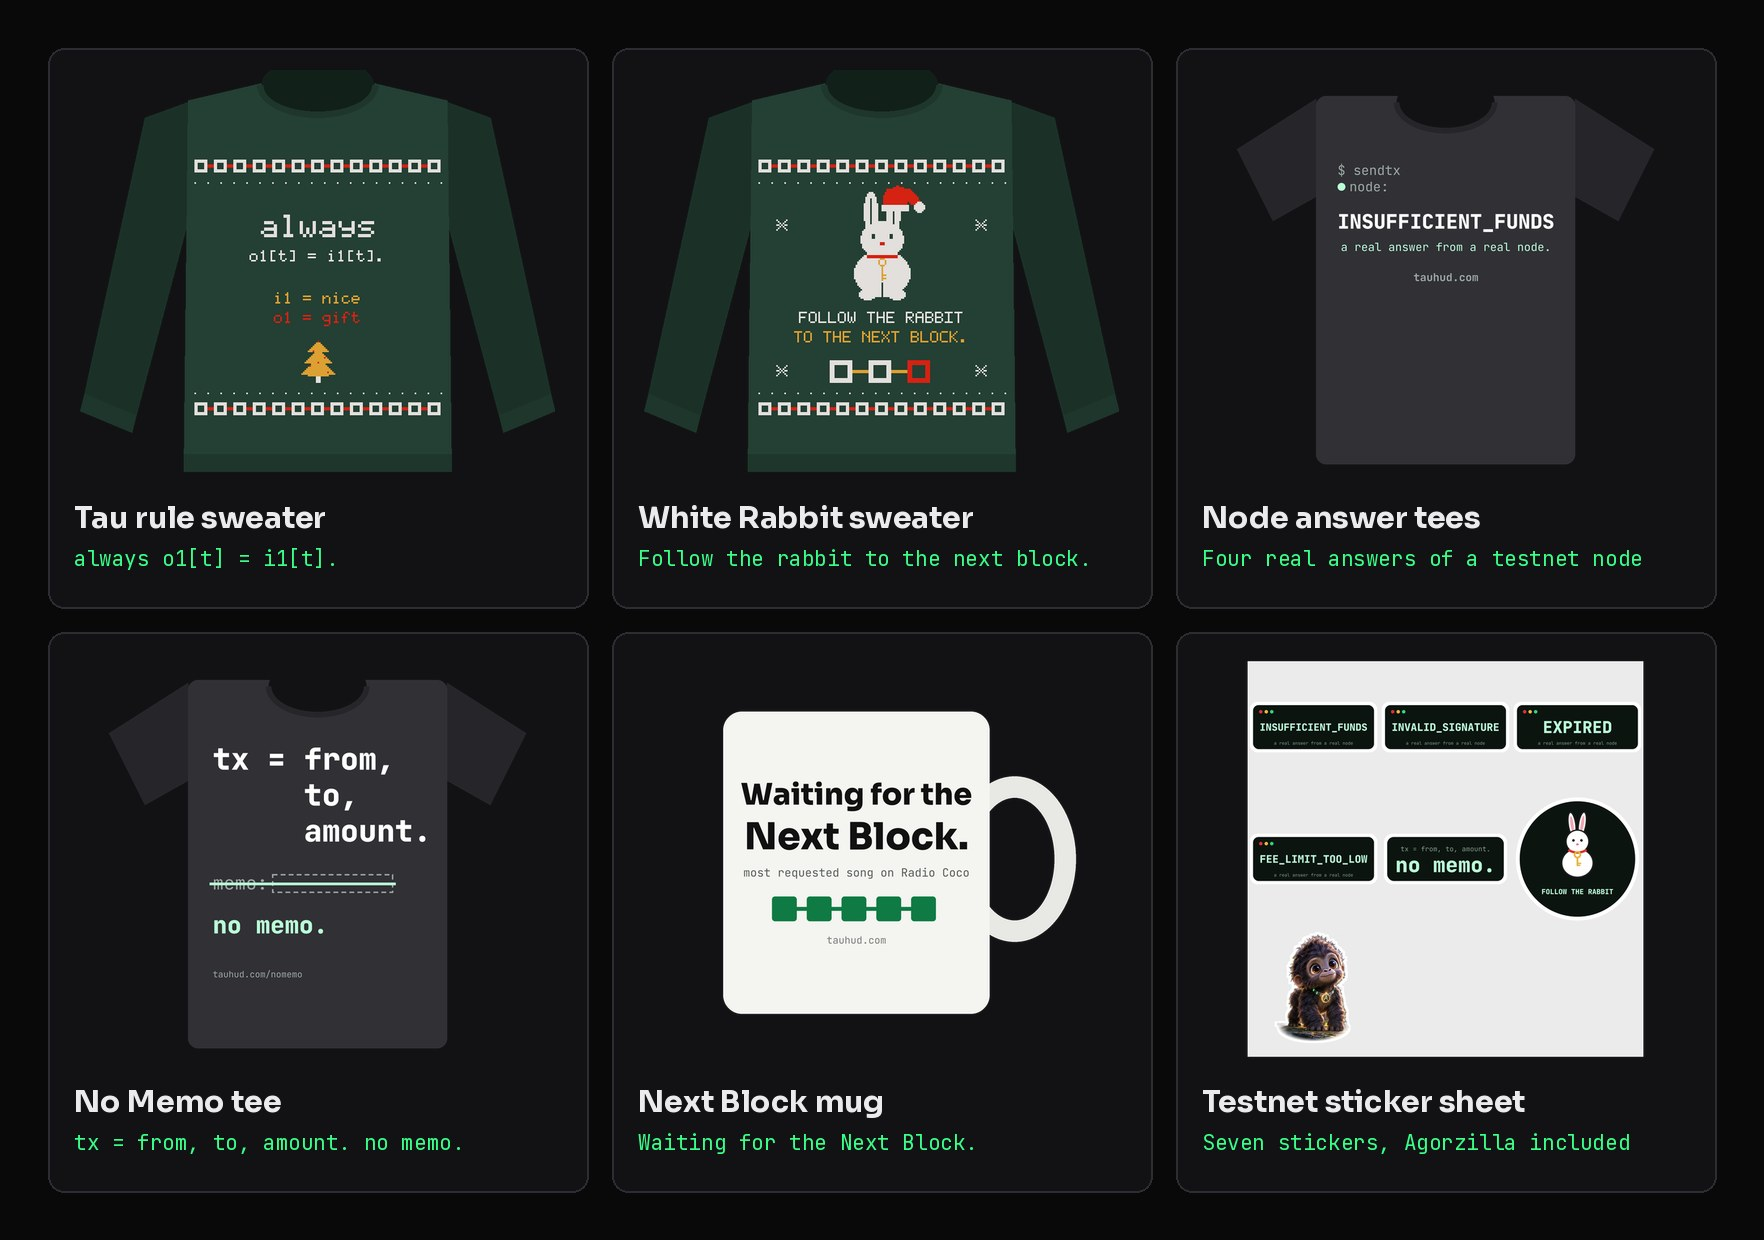
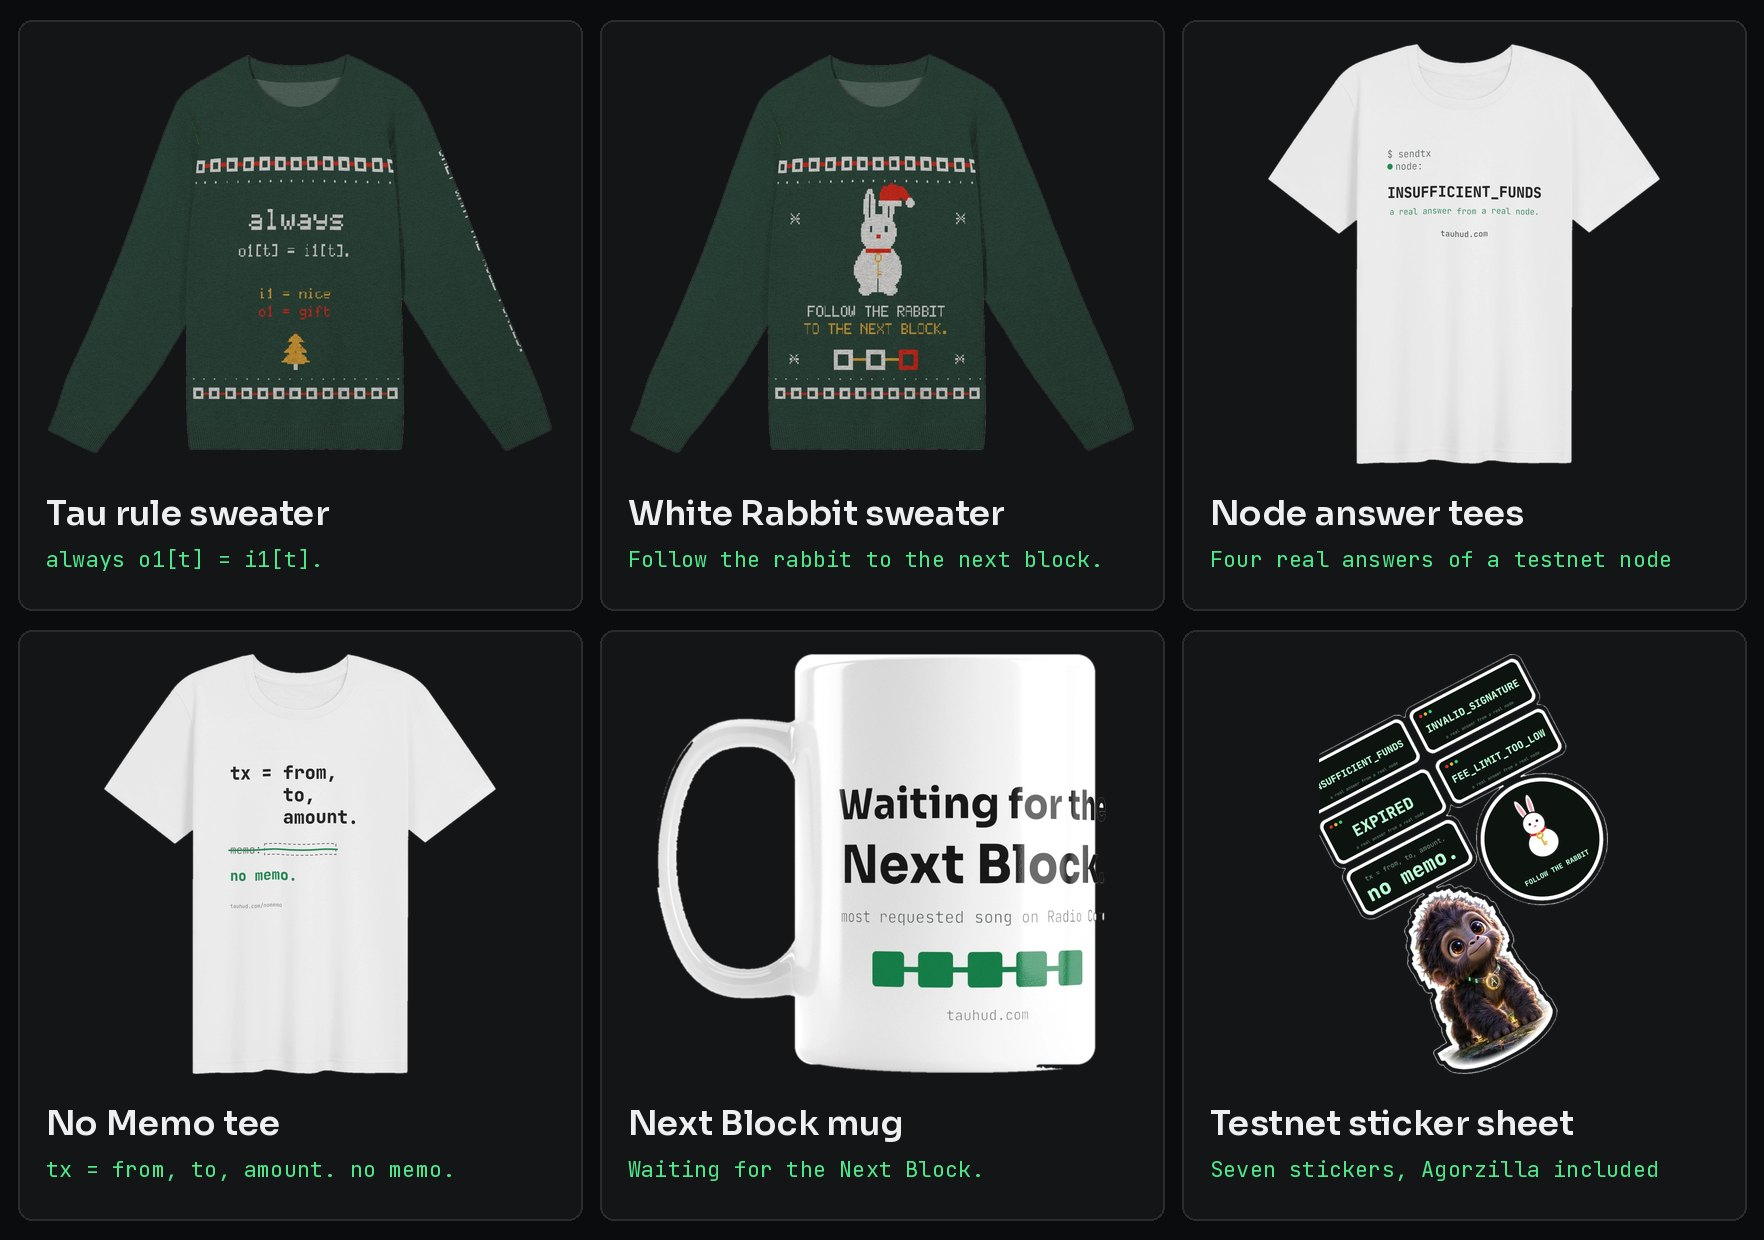
Shop: the real product photos everywhere

diff --git a/assets/i18n/ja/hud.js b/assets/i18n/ja/hud.js
@@ -2577,4 +2577,5 @@ TauI18n.add({ strings: {
   "Blog: a new article says what the site costs a month, why it has no ads, and the three ways to help: monthly support, the shop and a donation, all optional. It shows how much of each purchase reaches the site, with a picture of the best pieces of the first drop.": "ブログ：新しい記事で、サイトに月いくらかかるか、なぜ広告を載せないか、そして支援の 3 つの方法（毎月の支援、ショップ、寄付、どれも任意）を書きました。購入ごとにどれだけがサイトに届くかを示し、最初のラインナップから選んだ数点の写真も載せています。",
   "Blog: the article about the shop and monthly support now explains what each piece quotes and why it is a joke, from the node's INSUFFICIENT_FUNDS to the sweater with a real Tau Language rule. It also names Fourthwall's order-by dates for delivery before Christmas.": "ブログ：ショップと毎月の支援についての記事に、各グッズが何を引用していて、どこがネタなのかの解説を加えました。ノードの INSUFFICIENT_FUNDS から、本物の Tau Language のルールを編み込んだセーターまで。クリスマス前に届くための Fourthwall の注文期限も載せています。",
   "Tau HUD now has a shop and a monthly way to support it. Here is where the money goes.": "Tau HUD にショップと毎月の支援ができました。お金の行き先をここに書きます。",
+  "Shop: the pieces now show the shop's own product photos everywhere on the site, in the shop notice on the HUD, on the Support page, in the blog article and next to the lines that point to a piece.": "ショップ：サイト内のグッズは、どこでもショップの実際の商品写真で表示されるようになりました。HUD のショップ案内、支援ページ、ブログ記事、グッズを紹介する一文の横です。",
 } });

diff --git a/assets/i18n/zh/hud.js b/assets/i18n/zh/hud.js
@@ -2612,4 +2612,5 @@ TauI18n.add({ strings: {
   "Blog: a new article says what the site costs a month, why it has no ads, and the three ways to help: monthly support, the shop and a donation, all optional. It shows how much of each purchase reaches the site, with a picture of the best pieces of the first drop.": "博客：一篇新文章写明网站每月花多少钱、为什么不放广告，以及三种帮忙方式：每月支持、小店和捐赠，全部自愿。文章说明每笔购买有多少到了网站，并配有第一批最好几件商品的图片。",
   "Blog: the article about the shop and monthly support now explains what each piece quotes and why it is a joke, from the node's INSUFFICIENT_FUNDS to the sweater with a real Tau Language rule. It also names Fourthwall's order-by dates for delivery before Christmas.": "博客：关于小店和每月支持的文章现在解释了每件商品引用的是什么、梗在哪里，从节点的 INSUFFICIENT_FUNDS 到织着一条真实 Tau Language 规则的毛衣。文章还列出了 Fourthwall 给出的圣诞节前送达的最晚下单日期。",
   "Tau HUD now has a shop and a monthly way to support it. Here is where the money goes.": "Tau HUD 现在有了一个小店和每月支持的方式。钱都去了哪里，这里写清楚。",
+  "Shop: the pieces now show the shop's own product photos everywhere on the site, in the shop notice on the HUD, on the Support page, in the blog article and next to the lines that point to a piece.": "商店：网站上各处的商品现在都使用商店自己的产品照片，包括 HUD 上的商店提示、支持页、博客文章，以及指向某件商品的那些提示行。",
 } });
